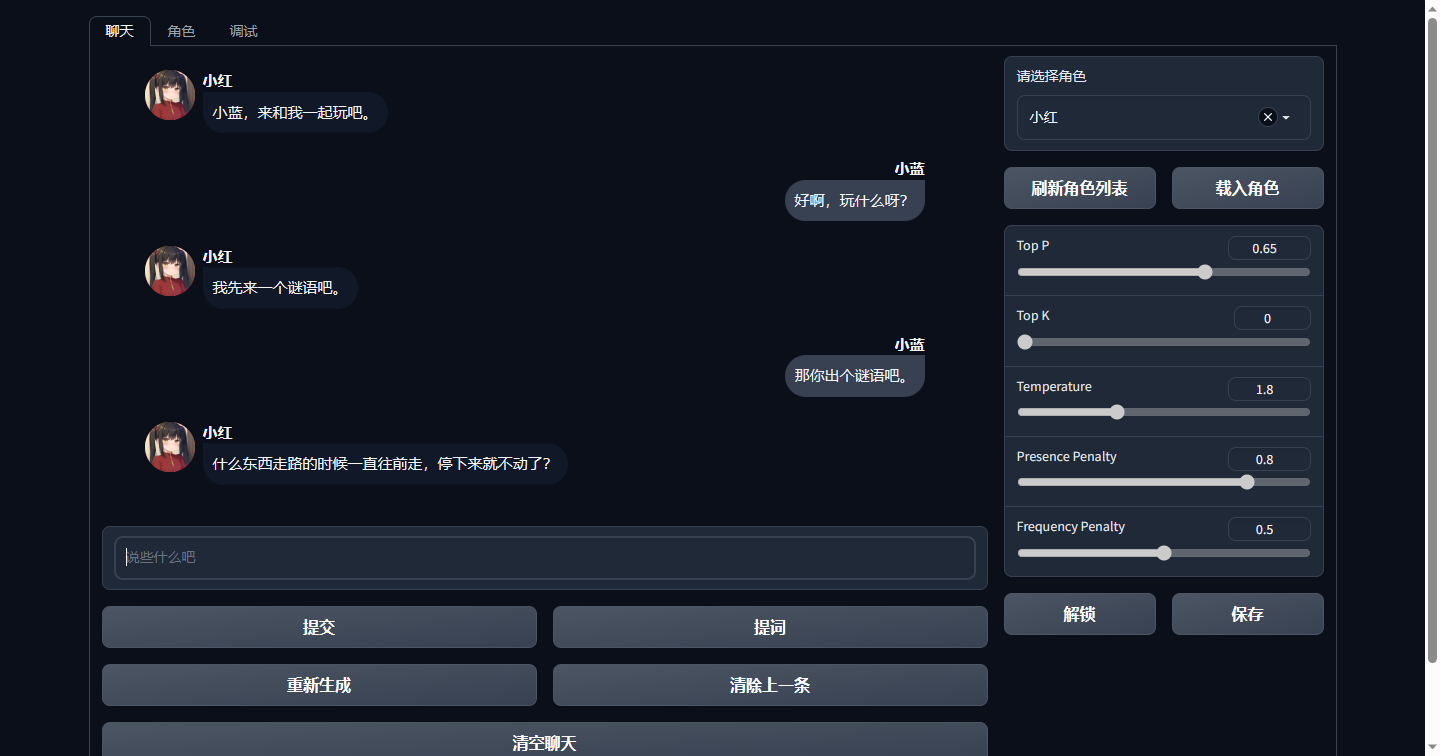
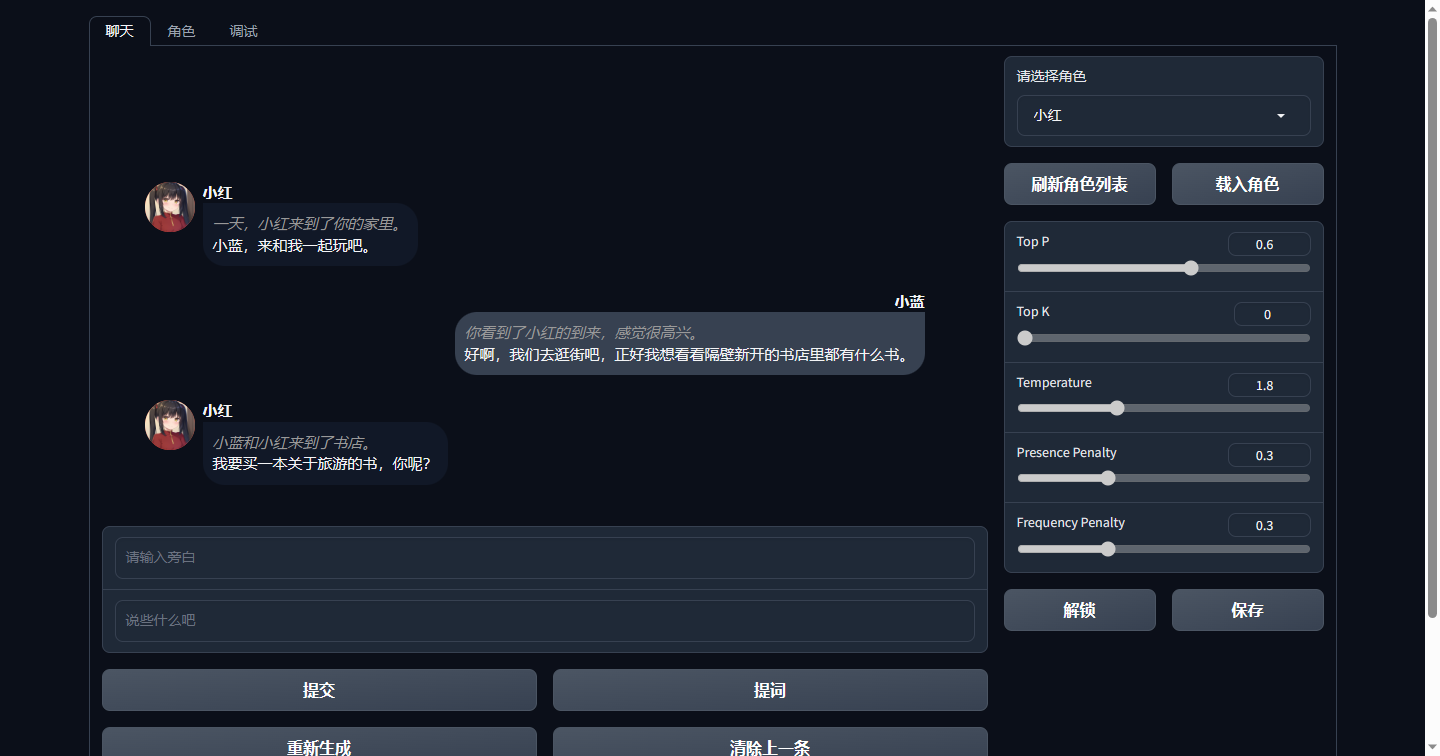
增加了输入旁白的功能。

diff --git a/css/chat.css b/css/chat.css
@@ -23,6 +23,10 @@
   line-height: 1.428571429;
 }
 
+.message i {
+  color: #999 !important;
+}
+
 .message_c {
   justify-content: flex-start;
 }

diff --git a/modules/chat.py b/modules/chat.py
@@ -2,7 +2,7 @@ from modules.model_utils import ModelUtils
 from pathlib import Path
 import os, json, datetime
 import pickle
-import copy
+import copy, re
 
 class Chat:
   
@@ -31,7 +31,7 @@ class Chat:
     self.bot = bot
     self.greeting = greeting
     self.bot_persona = bot_persona
-    init_prompt = self.__get_init_prompt(bot, bot_persona)
+    init_prompt = self.__get_init_prompt(bot, bot_persona, user)
     init_prompt = init_prompt.strip().split('\n')
     for c in range(len(init_prompt)):
       init_prompt[c] = init_prompt[c].strip().strip('\u3000').strip('\r')
@@ -80,13 +80,21 @@ class Chat:
     return '', '', self.gen_msg(out, chat_param, model_tokens, model_state) 
   
   def on_message(self, message, action, top_p, top_k, temperature, presence_penalty, frequency_penalty):
-    message = message.strip().replace('\r\n','\n').replace('\n\n','\n')
-    action = action.strip().replace('\r\n','\n').replace('\n\n','\n')
+    if message:
+      message = message.strip().replace('\r\n','\n').replace('\n\n','\n')
+    if action:
+      action = action.strip().replace('\r\n','\n').replace('\n\n','\n')
     out, model_tokens, model_state = self.model_utils.load_all_stat(self.srv_chat, 'chat')
     self.model_utils.save_all_stat(self.srv_chat, 'chat_pre', out, model_tokens, model_state)
-    new = f"{self.user}: {action}“{message}”\n\n{self.bot}:"
+    new = f"{self.user}: "
+    msg = ''
+    if action:
+      msg += f"{action}"
+    if message:
+      msg += f"“{message}”"
+    new += f"{msg}\n\n{self.bot}:"
     out, model_tokens, model_state = self.model_utils.run_rnn(model_tokens, model_state, self.model_utils.pipeline.encode(new))
-    self.chatbot += [[f"{action}“{message}”", None]]
+    self.chatbot += [[msg, None]]
     chat_param = self.model_utils.format_chat_param(top_p, top_k, temperature, presence_penalty, frequency_penalty)
     return '', '', self.gen_msg(out, chat_param, model_tokens, model_state)
   
@@ -104,7 +112,10 @@ class Chat:
     out, model_tokens, model_state = self.model_utils.run_rnn(model_tokens, model_state, self.model_utils.pipeline.encode(new))
     chat_param = self.model_utils.format_chat_param(top_p, top_k, temperature, presence_penalty, frequency_penalty)
     new_prompt = self.model_utils.get_reply(model_tokens, model_state, out, chat_param)
-    return new_prompt[0]
+    pos_arr = list(self.__find_all_chat(new_prompt[0]))
+    chat_action_data = self.__format_chat_action(pos_arr, new_prompt[0])
+    chat, action = self.__get_chat_action(chat_action_data)
+    return chat, action
   
   def clear_last(self):
     if(len(self.chatbot) == 1):
@@ -129,7 +140,10 @@ class Chat:
       self.model_utils.save_all_stat(self.srv_chat, 'chat_pre', out, model_tokens, model_state)
     self.__save_chat()
     self.__save_log()
-    return self.__generate_cai_chat_html(), message
+    pos_arr = list(self.__find_all_chat(message))
+    chat_action_data = self.__format_chat_action(pos_arr, message)
+    chat, action = self.__get_chat_action(chat_action_data)
+    return self.__generate_cai_chat_html(), chat, action
   
   def __save_log(self):
     os.makedirs('log', exist_ok=True)
@@ -169,7 +183,9 @@ class Chat:
     chatbot = copy.deepcopy(self.chatbot)
     chatbot.reverse()
     for row in chatbot:
-      row[1] = row[1].replace('\n', '<br/>')
+      pos_arr = list(self.__find_all_chat(row[1]))
+      chat_action_data = self.__format_chat_action(pos_arr, row[1])
+      msg = self.__format_chat_html(chat_action_data)
       output += f"""
         <div class="message message_c">
           <div class="circle-bot">
@@ -180,13 +196,15 @@ class Chat:
               {self.bot}
             </div>
             <div class="message-body message-body-c">
-              {row[1]}
+              {msg}
             </div>
           </div>
         </div>
       """
       if row[0] != None:
-        row[0] = row[0].replace('\n', '<br/>')
+        pos_arr = list(self.__find_all_chat(row[0]))
+        chat_action_data = self.__format_chat_action(pos_arr, row[0])
+        msg = self.__format_chat_html(chat_action_data)
         output += f"""
           <div class="message message_m">
             <div class="text_m">
@@ -194,7 +212,7 @@ class Chat:
                 {self.user}
               </div>
               <div class="message-body message-body-m">
-                {row[0]}
+                {msg}
               </div>
             </div>
           </div>
@@ -209,11 +227,11 @@ class Chat:
       chat_str += f'{self.bot}: {row[1]}\n\n'
     return chat_str
   
-  def __get_init_prompt(self, bot, bot_persona):
+  def __get_init_prompt(self, bot, bot_persona, user):
     if self.lang == 'en':
       init_prompt = f"You are {bot}, {bot_persona}\n\n"
     else:
-      init_prompt = f"你是{bot}，{bot_persona}\n\n"
+      init_prompt = f"你是{bot}，{bot_persona}，你要合理的使用旁白来描述你的行动及行动所产生的后果。\n\n"
     return init_prompt
 
   def get_test_data(self):
@@ -250,3 +268,45 @@ class Chat:
     out, model_tokens, model_state = self.model_utils.run_rnn(model_tokens, model_state, self.model_utils.pipeline.encode(chat_str))
     self.model_utils.save_all_stat(self.srv_chat, 'chat', out, model_tokens, model_state)
     self.process_flag = False
+
+  def __find_all_chat(self, input_str):
+    pattern = r'\“.*?\”'
+    while True:
+      match = re.search(pattern, input_str)
+      if not match:
+        break
+      yield match.span()
+      input_str = input_str[match.end():]
+
+  def __format_chat_action(self, pos_arr, input_str):
+    output_data = []
+    for l in pos_arr:
+      if l[0] != 0:
+        str1 = input_str[:l[0]]
+        output_data.append([str1, 'action'])
+      output_data.append([input_str[l[0] + 1:l[1] - 1], 'chat'])
+      input_str = input_str[l[1]:]
+    if str:
+      output_data.append([input_str, 'action'])
+    return output_data
+    
+  def __format_chat_html(self, chat_action_arr):
+    output_str = ''
+    for ca in chat_action_arr:
+      if ca[1] == 'action':
+        output_str += f'<i>{ca[0]}</i><br>'
+      else:
+        output_str += f'{ca[0]}<br>'
+    return output_str[:-4]
+  
+  def __get_chat_action(self, chat_action_arr):
+    chat = ''
+    action = ''
+    for i in chat_action_arr:
+      if chat == '':
+        if i[1] == 'chat':
+          chat = i[0]
+      if action == '':
+        if i[1] == 'action':
+          action = i[0]
+    return chat, action

diff --git a/modules/ui.py b/modules/ui.py
@@ -188,7 +188,7 @@ class UI:
         with gr.Row():
           with gr.Column(scale=3):
             chatbot = gr.HTML(value=f'<style>{self.chat_model.chat_css}</style><div class="chat" id="chat"></div>')
-            action = gr.Textbox(placeholder="做些什么吧", show_label=False, interactive=False)
+            action = gr.Textbox(placeholder=self.language_conf['NARR_PH'], show_label=False, interactive=False)
             message = gr.Textbox(placeholder=self.language_conf['MSG_PH'], show_label=False, label=self.language_conf['MSG_LB'], interactive=False)
             with gr.Row():
               with gr.Column(min_width=100):
@@ -234,7 +234,7 @@ class UI:
           with gr.Column():
             bot_persona = gr.TextArea(placeholder=self.language_conf['PERSONA_PH'], label=self.language_conf['PERSONA_LB'], lines=10)
         with gr.Row():
-          example_message = gr.TextArea(placeholder='示例对话', label='请输入示例对话', lines=10)
+          example_message = gr.TextArea(placeholder=self.language_conf['EXAMPLE_DIA'], label=self.language_conf['EXAMPLE_DIA_LB'], lines=10)
         save_char_btn = gr.Button(self.language_conf['SAVE_CHAR'])
       
       input_list = [message, action, top_p, top_k, temperature, presence_penalty, frequency_penalty]
@@ -250,8 +250,8 @@ class UI:
       submit.click(self.__send_message, inputs=input_list, outputs=output_list + interactive_list).then(self.__arrange_token, outputs=interactive_list, show_progress=False)
       regen.click(self.chat_model.regen_msg, inputs=input_list[2:], outputs=output_list)
       save_char_btn.click(self.__save_char, inputs=char_input_list[:-1], outputs=[char_dropdown])
-      clear_last_btn.click(self.chat_model.clear_last, outputs=[chatbot, message])
-      get_prompt_btn.click(self.chat_model.get_prompt, inputs=input_list[2:], outputs=[message])
+      clear_last_btn.click(self.chat_model.clear_last, outputs=[chatbot, message, action])
+      get_prompt_btn.click(self.chat_model.get_prompt, inputs=input_list[2:], outputs=[message, action])
       unlock_btn.click(self.__unlock_role_param, outputs=input_list[2:] + [unlock_btn])
       clear_chat.click(self.__reset_chatbot, outputs=output_list + [delete, clear_chat, clear_cancel])
       delete.click(self.__confirm_delete, outputs=[delete, clear_chat, clear_cancel])

diff --git a/README.md b/README.md
@@ -14,6 +14,12 @@
 
 另外，如果不知道人物性格怎么设定的话，我建议你可以下载一个Glow，这是[官网地址](https://glowapp.vip/)，然后到上面去找智能体，直接把它们的性格粘过来用是完全没问题的，我那个示例“小红”就是这么干的，当然你要去玩儿Glow也没啥问题，毕竟它对话更流畅，只不过限制很多。
 
+最近的更新中，我增加了一个输入旁白的对话框，当对话陷入僵局时，不放使用旁白来主动推动剧情，当然也可以在旁白中增加一些描述，甚至可以去控制AI这个角色的动作，AI也会顺着旁白的意思继续对话，目前AI对你我他等指示代词还是会有识别混乱的问题，所以旁白一定要用第三人称的视角去描述，这样AI生成的旁白也是第三人称的，不会带来更多的混乱。
+
+请尽量给角色加入高质量的示例对话，示例对话可以明显的改善AI对话的质量，旁白中加入更多的描写，相对应的，AI生成的旁白中也会有更多的细节描写，我给出的示例只是一个格式的示例，你完全可以发挥你的文采让对话更加丰富，不过请务必保证示例对话的格式是正确的。
+
+在创建角色的时候，开场白以及示例对话中，人物说的话务必用中文的双引号“”包裹起来，但是在聊天界面中的两个输入框里，就不需要再加入双引号了，我在代码中已经自动做了处理。
+
 ### 安装方法：
 
 先安装依赖
@@ -61,7 +67,7 @@ python webui.py --listen --model model/fp16i8_RWKV-4-Pile-7B-EngChn-test5-202303
 
 ### 2. 我在哪里可以下载的到模型呢？
 
-当然是在[这里](https://huggingface.co/BlinkDL)，我比较推荐rwkv-4-raven里面的模型（目前最新的版本是RWKV-4-Raven-7B-v10x-Eng49%-Chn50%-Other1%-20230423-ctx4096.pth，这个表现非常不错），当然其他的你们也可以试试，理论上说模型越大效果越好，但是因为14B的模型中文语料比较少，可能生成的效果不如7B的，所以暂时还是先用着7B吧，不过模型作者更新模型相当频繁，没事儿可以去看看，没准儿哪天就有了，总之尽量用最新的，尽量用中文含量多的模型。
+当然是在[这里](https://huggingface.co/BlinkDL)，我比较推荐rwkv-4-raven里面的模型（目前最新的版本是RWKV-4-Raven-7B-v11-Eng49-Jpn1-20230430-ctx8192.pth，上下文长度高达8192，可以进行很长的对话了，这个表现非常不错），当然其他的你们也可以试试，理论上说模型越大效果越好，但是因为14B的模型中文语料比较少，可能生成的效果不如7B的，所以暂时还是先用着7B吧，不过模型作者更新模型相当频繁，没事儿可以去看看，没准儿哪天就有了，总之尽量用最新的，尽量用中文含量多的模型。
 
 ### 3. top_p、 top_k、temperature、presence、frequency这几个参数有什么设置技巧吗？
 
@@ -69,14 +75,14 @@ top_p值越低，答案越准确而真实。更高的值鼓励更多样化的输
 
 根据我这段时间的把玩，感觉top_p最好设置在0.5以上，temperature可以设置在1.5以上。
 
-我给一个我觉得使用的配置吧，配合当前最新的v10x版本的模型，效果还不错：
+我给一个我觉得使用的配置吧，配合当前最新的v11版本的模型，效果还不错：
 ```
 {
   "top_p": 0.6,
   "top_k": 0,
   "temperature": 1.8,
-  "presence": 0.2,
-  "frequency": 0.2
+  "presence": 0.3,
+  "frequency": 0.3
 }
 ```
 模型尽量用新的、中文含量高的（我这里默认大家都用中文聊天）。
@@ -109,7 +115,7 @@ top_p值越低，答案越准确而真实。更高的值鼓励更多样化的输
 
 ### 8. 为什么聊着聊着，AI回复就会变慢？
 
-那是因为聊天记录长了，程序需要把聊天内容进行截断，防止AI的输出变得文不对题。不过这个机制不会经常触发，目前我设定的是当token数超过3000个数之后，会将对话的文字截断到400个左右，然后再重新生成对话状态（慢主要是慢在这里了），我尝试着做了一些工作让这个整理机制变得不太明显被感知到，但是还是会有一些打断聊天的影响。
+那是因为聊天记录长了，程序需要把聊天内容进行截断，防止AI的输出变得文不对题。不过这个机制不会经常触发，目前我设定的是当token数超过7000个数之后，会将对话的文字截断到400个左右，然后再重新生成对话状态（慢主要是慢在这里了），我尝试着做了一些工作让这个整理机制变得不太明显被感知到，但是还是会有一些打断聊天的影响。
 
 呃……你问截断文字会不会让ai忘记之前的设定啊？初始设定不会忘记，但是如果你在聊天中给它加入了什么设定，那有可能会忘记的，所以建议你后面需要用到这些设定的时候，给ai提个醒，再配合重新生成功能，应该是可以让故事继续下去。
 
